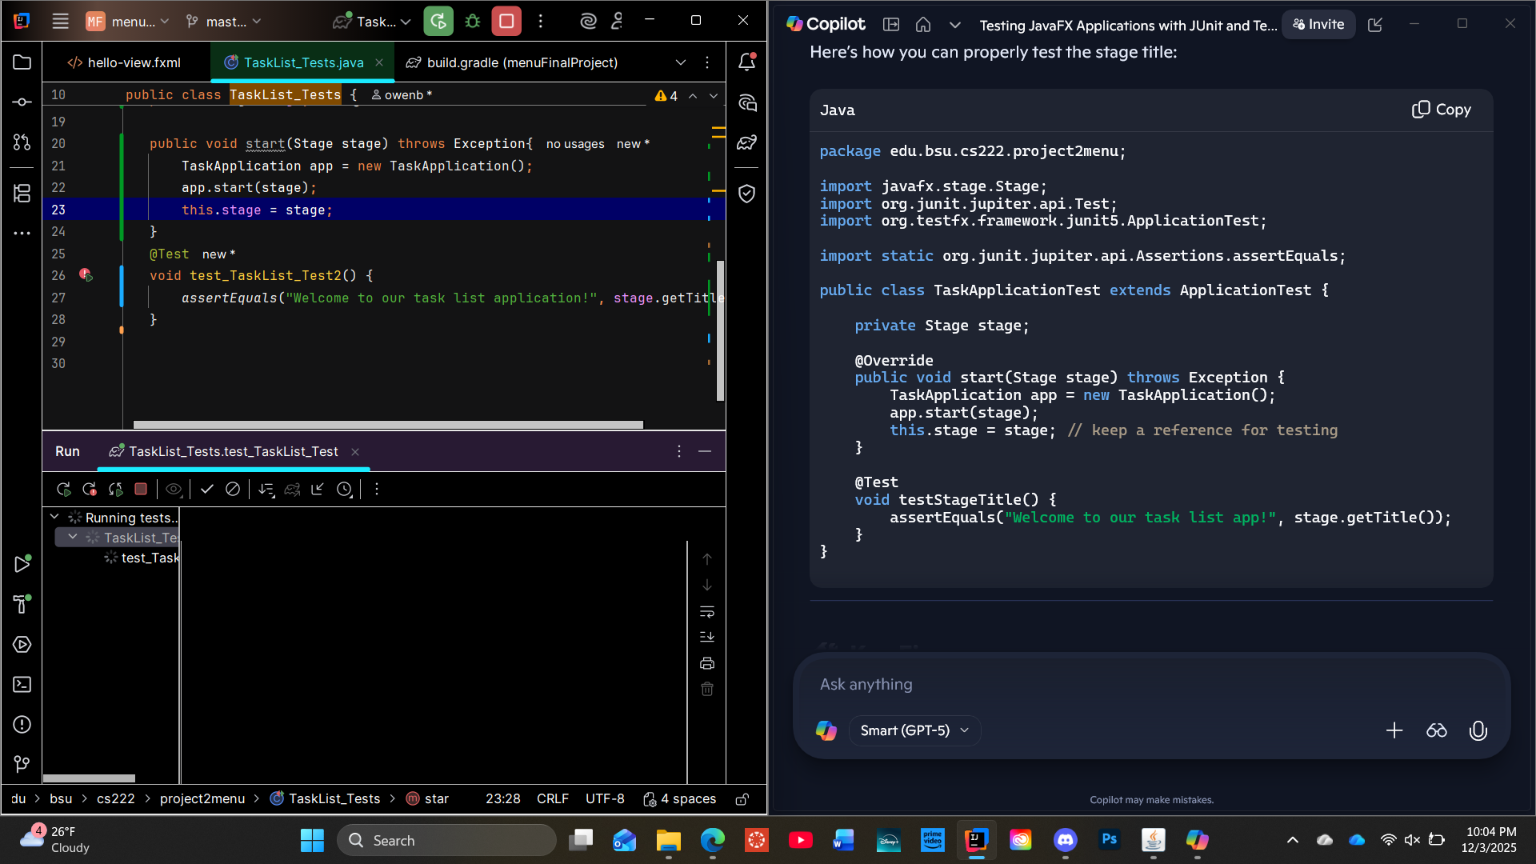
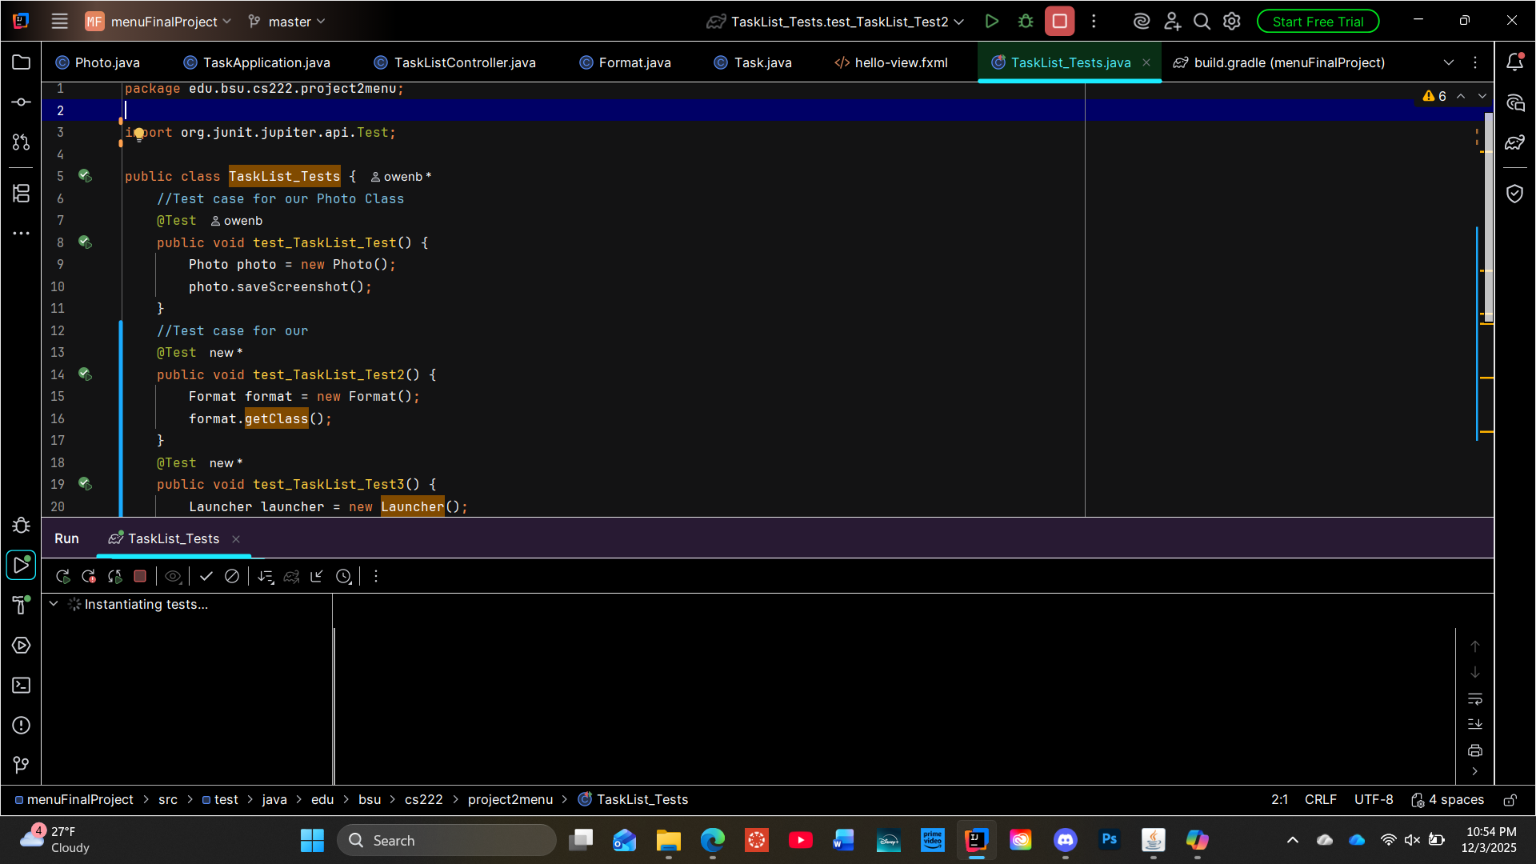
5 test cases(all five are passing)

diff --git a/src/test/java/edu/bsu/cs222/project2menu/TaskList_Tests.java b/src/test/java/edu/bsu/cs222/project2menu/TaskList_Tests.java
@@ -1,9 +1,6 @@
 package edu.bsu.cs222.project2menu;
 
-import javafx.stage.Stage;
 import org.junit.jupiter.api.Test;
-
-import static org.junit.jupiter.api.Assertions.assertEquals;
 
 public class TaskList_Tests {
     //Test case for our Photo Class
@@ -12,5 +9,28 @@ public class TaskList_Tests {
         Photo photo = new Photo();
         photo.saveScreenshot();
     }
+    //Test case for our Format class
+    @Test
+    public void test_TaskList_Test2() {
+        Format format = new Format();
+        format.getClass();
+    }
+    //Test case for our Launcher class
+    @Test
+    public void test_TaskList_Test3() {
+        Launcher launcher = new Launcher();
+        launcher.getClass();
+    }
     //Test case for our TaskApplication class
+    @Test
+    public void test_TaskList_Test4() {
+        TaskApplication application = new TaskApplication();
+        application.getClass();
+    }
+    //Test case for our TaskListController class
+    @Test
+    public void test_TaskList_Test5() {
+        TaskListController controller = new TaskListController();
+        controller.getClass();
+    }
 }
